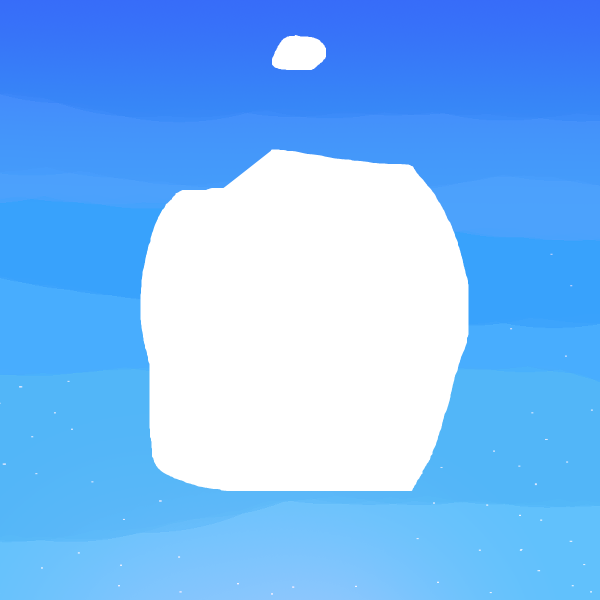
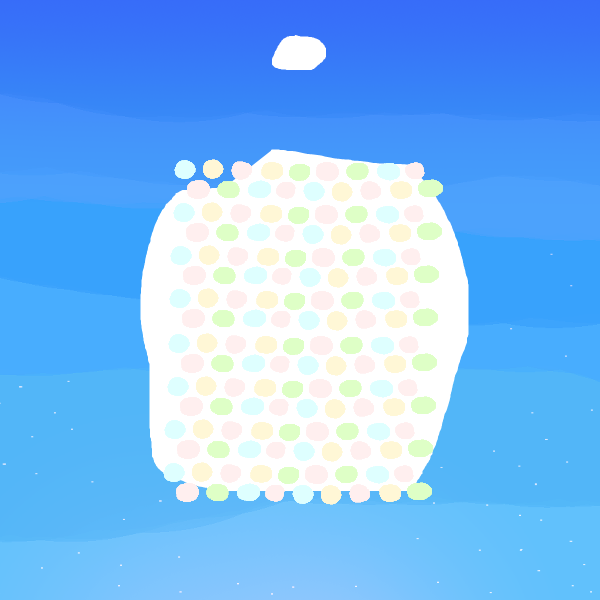
배경체인지

Changed region(s): [[0.27, 0.27, 0.75, 0.84]]

diff --git a/tamaMain.py b/tamaMain.py
@@ -29,7 +29,7 @@ smallSize = 1.3
 
 #  게임 시작/종료 버튼 위치+ 크기
 backGround = image.load('배경1.png')
-backG_1 = image.load('배경2.png')
+backG_1 = image.load('도트배경.png')
 
 button1image = image.load('시작버튼.png')
 button1image = pygame.transform.scale(button1image, (293 / 1.5, 91 / 1.5))
